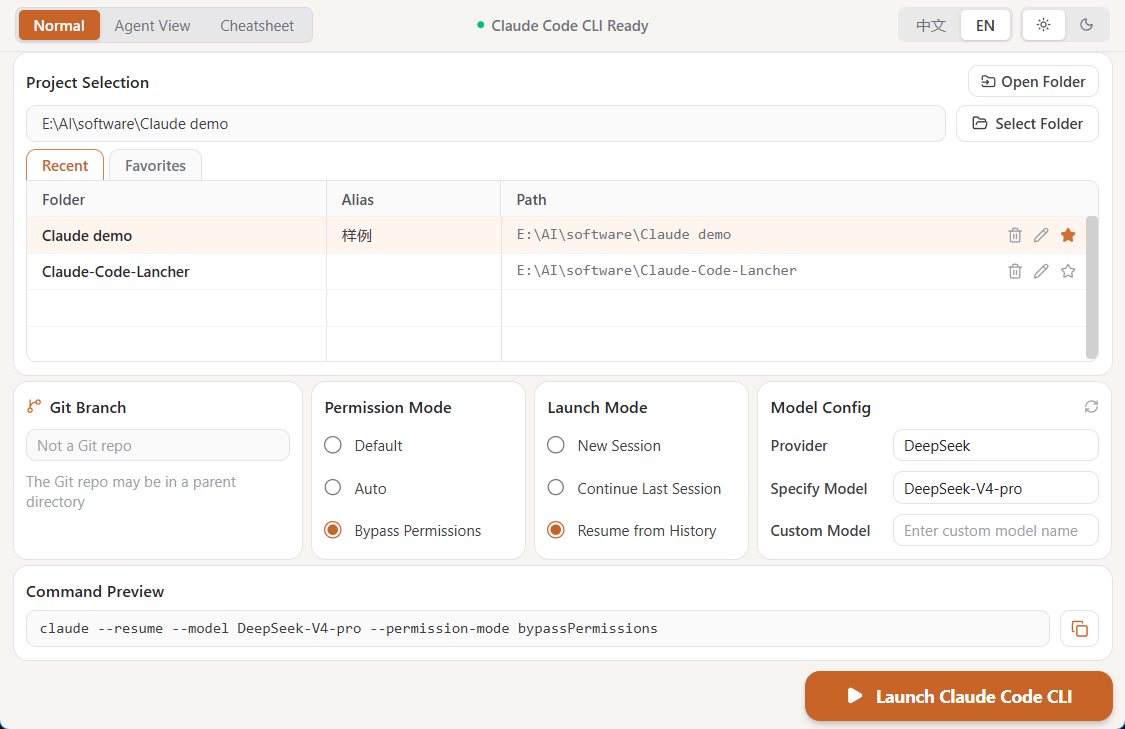
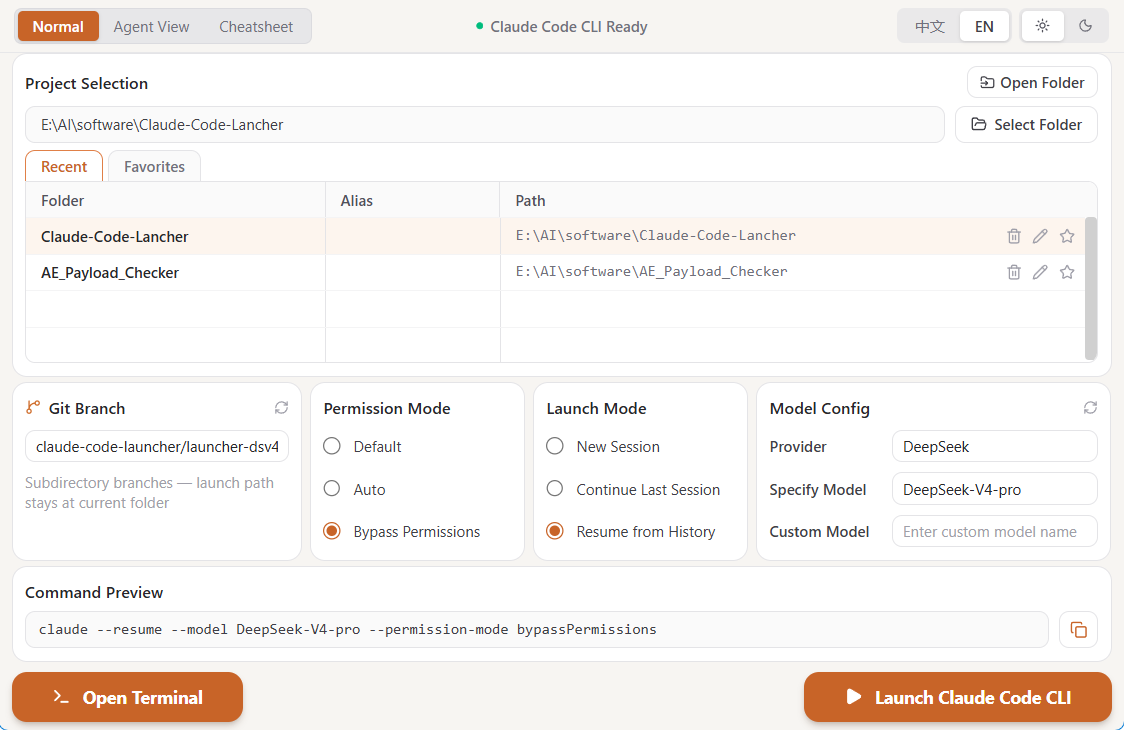
docs: 补充"仅打开终端"功能 + 更新普通模式截图
- Features 新增 Open Terminal / 仅启动终端
- Usage 步骤加入终端快捷入口说明
- 更新浅色普通模式截图（中英文）

diff --git a/README.md b/README.md
@@ -36,6 +36,7 @@ It's tedious for beginners and repetitive for everyone else.
 **Claude Code Launcher wraps that entire workflow in a GUI:**
 
 - **Pick your project** from a saved list — no more navigating folders in a terminal
+- **Open a terminal at your project** in one click — no right-clicking in File Explorer
 - **Toggle bypass permissions** with a switch — no more memorizing `--permission-mode bypassPermissions`
 - **Choose your conversation** visually — New / Continue / Resume, right there as a radio button
 - **See the exact command** being built in real time before you hit Launch
@@ -65,6 +66,7 @@ If you're an experienced user, think of it as a project manager for your Claude 
 | | Feature | What it replaces |
 |---|---|---|
 | 📁 | Project list with favorites & aliases | Navigating to folders manually every time |
+| 🖥 | **Open Terminal** — open a shell at the project folder | Right-click → Open in Terminal |
 | 🌿 | Git branch selector | `git checkout` before launching |
 | 💬 | New · Continue · Resume session modes | Memorizing `--continue` / `--resume` flags |
 | 🤖 | Agent View mode (`claude agents`) | Typing the agents subcommand |
@@ -114,13 +116,14 @@ pnpm tauri build
 ## Usage
 
 1. **Add a project** — click **Choose Directory** or type the path directly; it's saved for next time
-2. **Pick a branch** — the Git panel shows your current branch; switch before launching if needed
-3. **Choose session mode**
+2. **Open a terminal** (optional) — click **Open Terminal** to jump straight to the project folder in your shell
+3. **Pick a branch** — the Git panel shows your current branch; switch before launching if needed
+4. **Choose session mode**
    - `New Session` — fresh start
    - `Continue` — picks up the last conversation (`--continue`)
    - `Resume` — shows a list of past conversations to choose from (`--resume`)
-4. **Configure the model** — auto-detected from `.claude/settings.json`; override anytime
-5. **Check the preview** — the bottom bar shows the exact command; click **Copy** or just **Launch**
+5. **Configure the model** — auto-detected from `.claude/settings.json`; override anytime
+6. **Check the preview** — the bottom bar shows the exact command; click **Copy** or just **Launch**
 
 > Switch to **Agent View** from the top toolbar to open the `claude agents` dashboard instead.
 

diff --git a/README.zh-CN.md b/README.zh-CN.md
@@ -36,6 +36,7 @@
 **Claude Code Launcher 把这套流程包进了一个图形界面：**
 
 - **从收藏列表选项目** — 不用每次在终端里翻文件夹
+- **一键打开项目终端** — 不用在文件资源管理器里右键→打开终端
 - **一个开关搞定绕过权限** — 不用记忆 `--permission-mode bypassPermissions` 这串命令
 - **可视化选择对话** — 新会话 / Continue / Resume，直接点选，无需记参数
 - **实时预览完整命令** — 点击启动前就能看到实际执行的是什么
@@ -65,6 +66,7 @@
 | | 功能 | 替代了什么 |
 |---|---|---|
 | 📁 | 项目列表，支持收藏与备注别名 | 每次手动找文件夹 |
+| 🖥 | **仅启动终端** — 在项目目录打开 Shell | 右键→在终端中打开 |
 | 🌿 | Git 分支选择器 | 启动前手动 `git checkout` |
 | 💬 | 新会话 · Continue · Resume 三种模式 | 记忆 `--continue` / `--resume` 参数 |
 | 🤖 | Agent View 模式（`claude agents`） | 手动输入 agents 子命令 |
@@ -114,13 +116,14 @@ pnpm tauri build
 ## 使用方法
 
 1. **添加项目** — 点击 **选择目录** 或直接输入路径，下次自动出现在列表中
-2. **选择分支** — Git 分支面板显示当前分支，启动前可直接切换
-3. **选择会话模式**
+2. **打开终端**（可选）— 点击 **仅启动终端** 直接在项目目录打开 Shell
+3. **选择分支** — Git 分支面板显示当前分支，启动前可直接切换
+4. **选择会话模式**
    - `新会话` — 全新开始
    - `Continue` — 续接上次会话（`--continue`）
    - `Resume` — 从历史会话列表中选择一次恢复（`--resume`）
-4. **配置模型** — 自动从 `.claude/settings.json` 读取，也可随时手动覆盖
-5. **预览并启动** — 底部实时显示完整命令，点击 **复制** 或直接点 **启动**
+5. **配置模型** — 自动从 `.claude/settings.json` 读取，也可随时手动覆盖
+6. **预览并启动** — 底部实时显示完整命令，点击 **复制** 或直接点 **启动**
 
 > 点击顶部工具栏的模式切换，可进入 **Agent View** 模式，直接打开 `claude agents` 面板。
 
